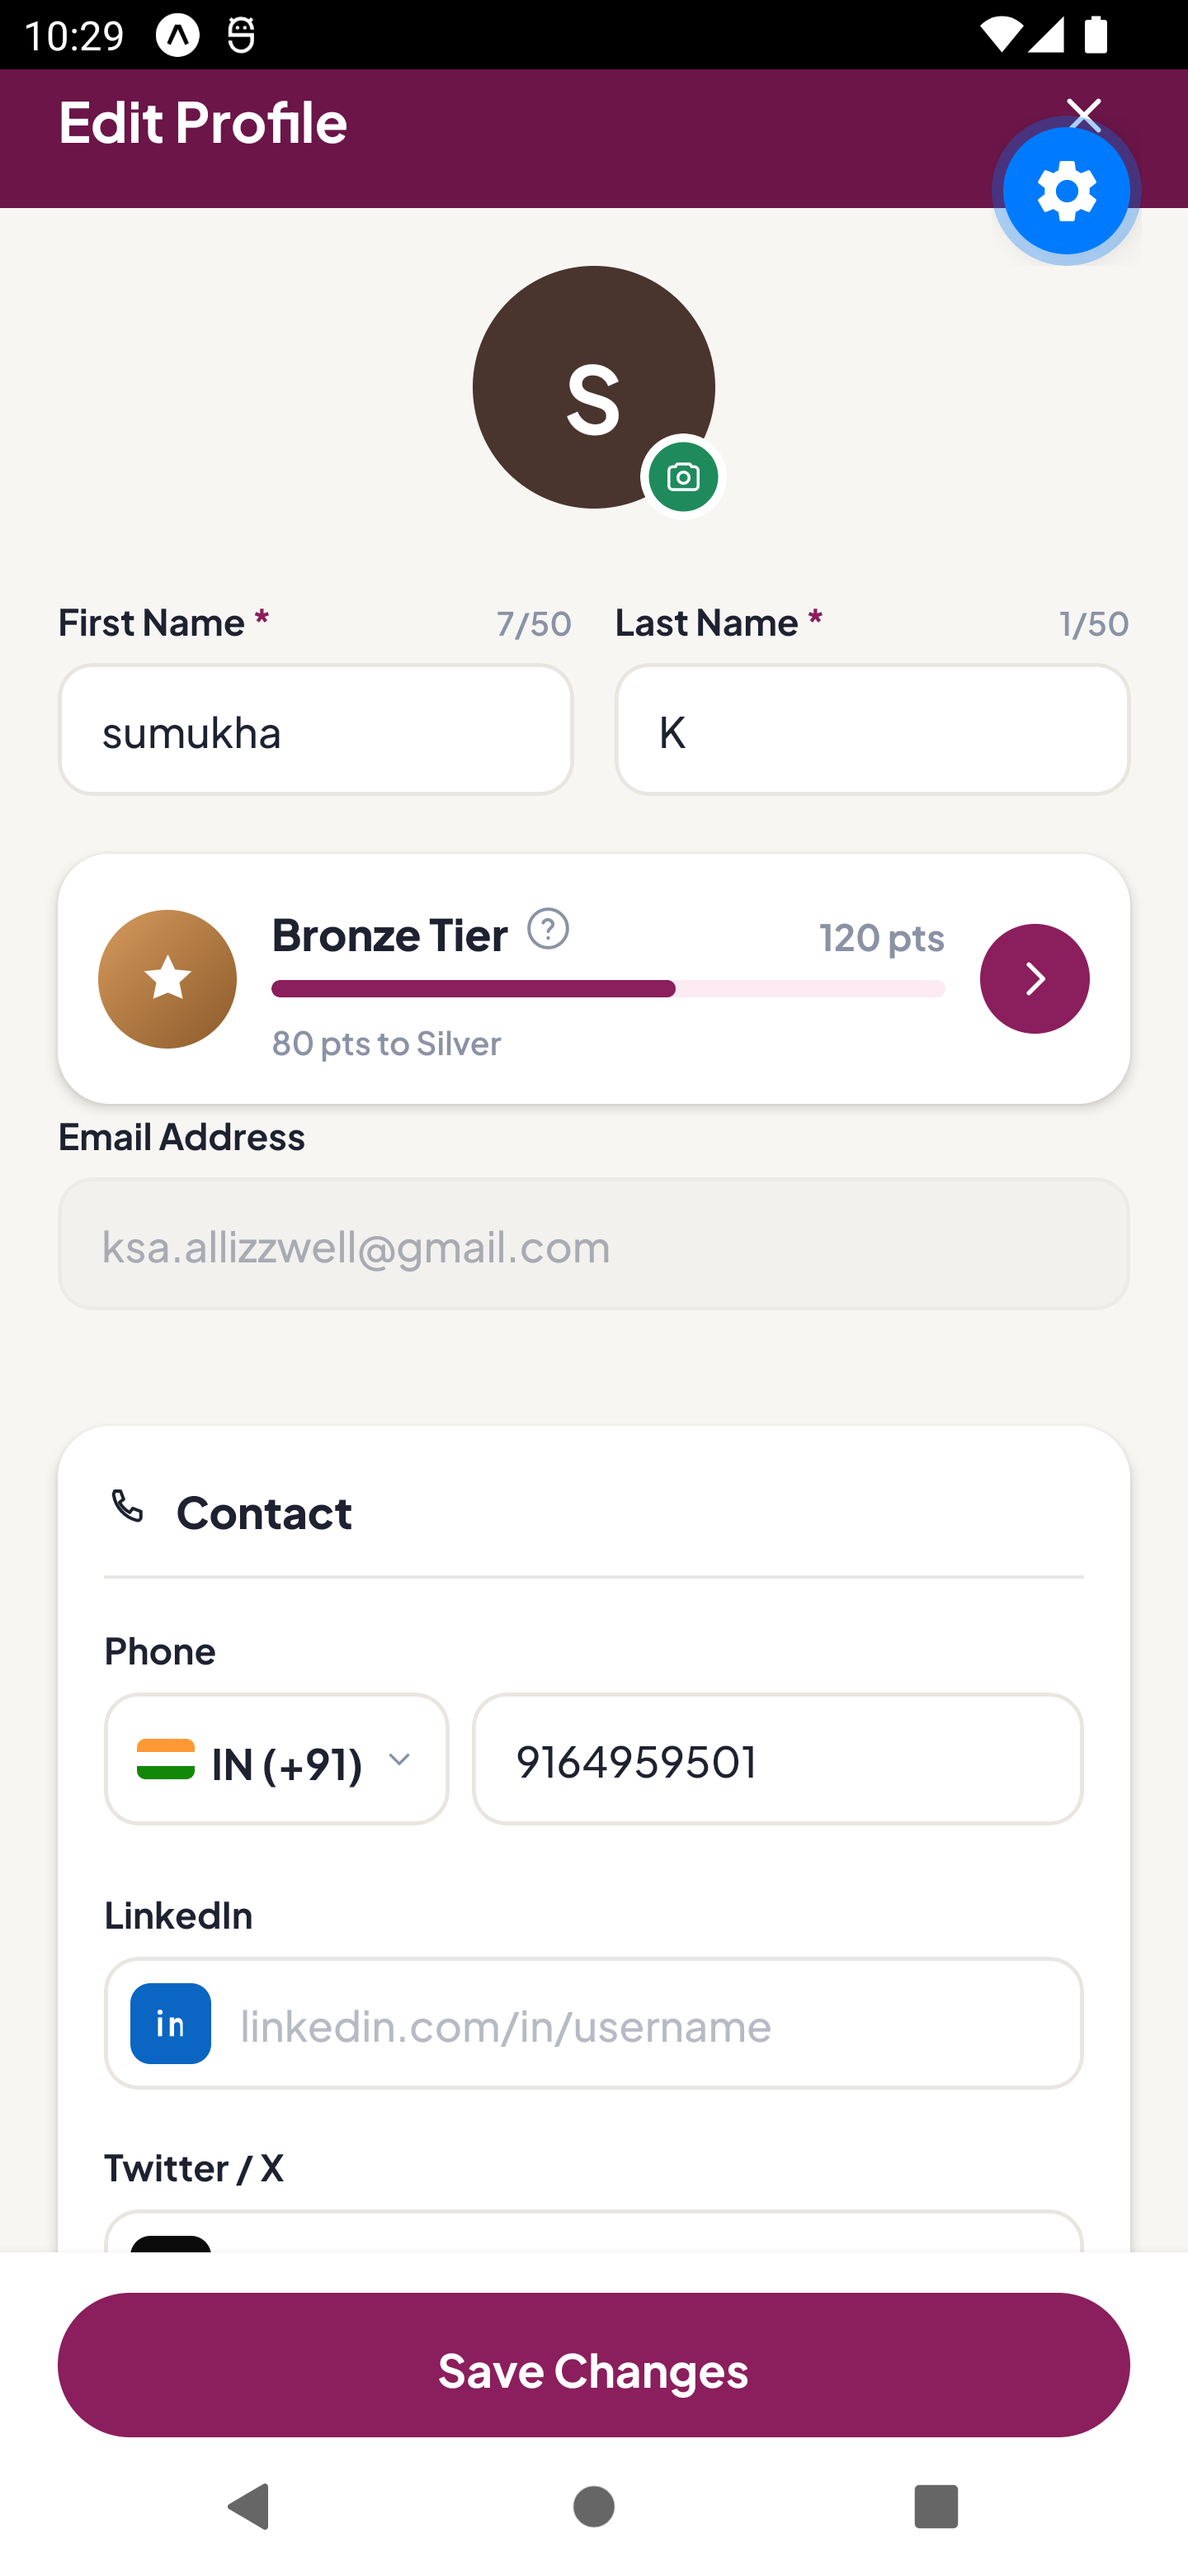
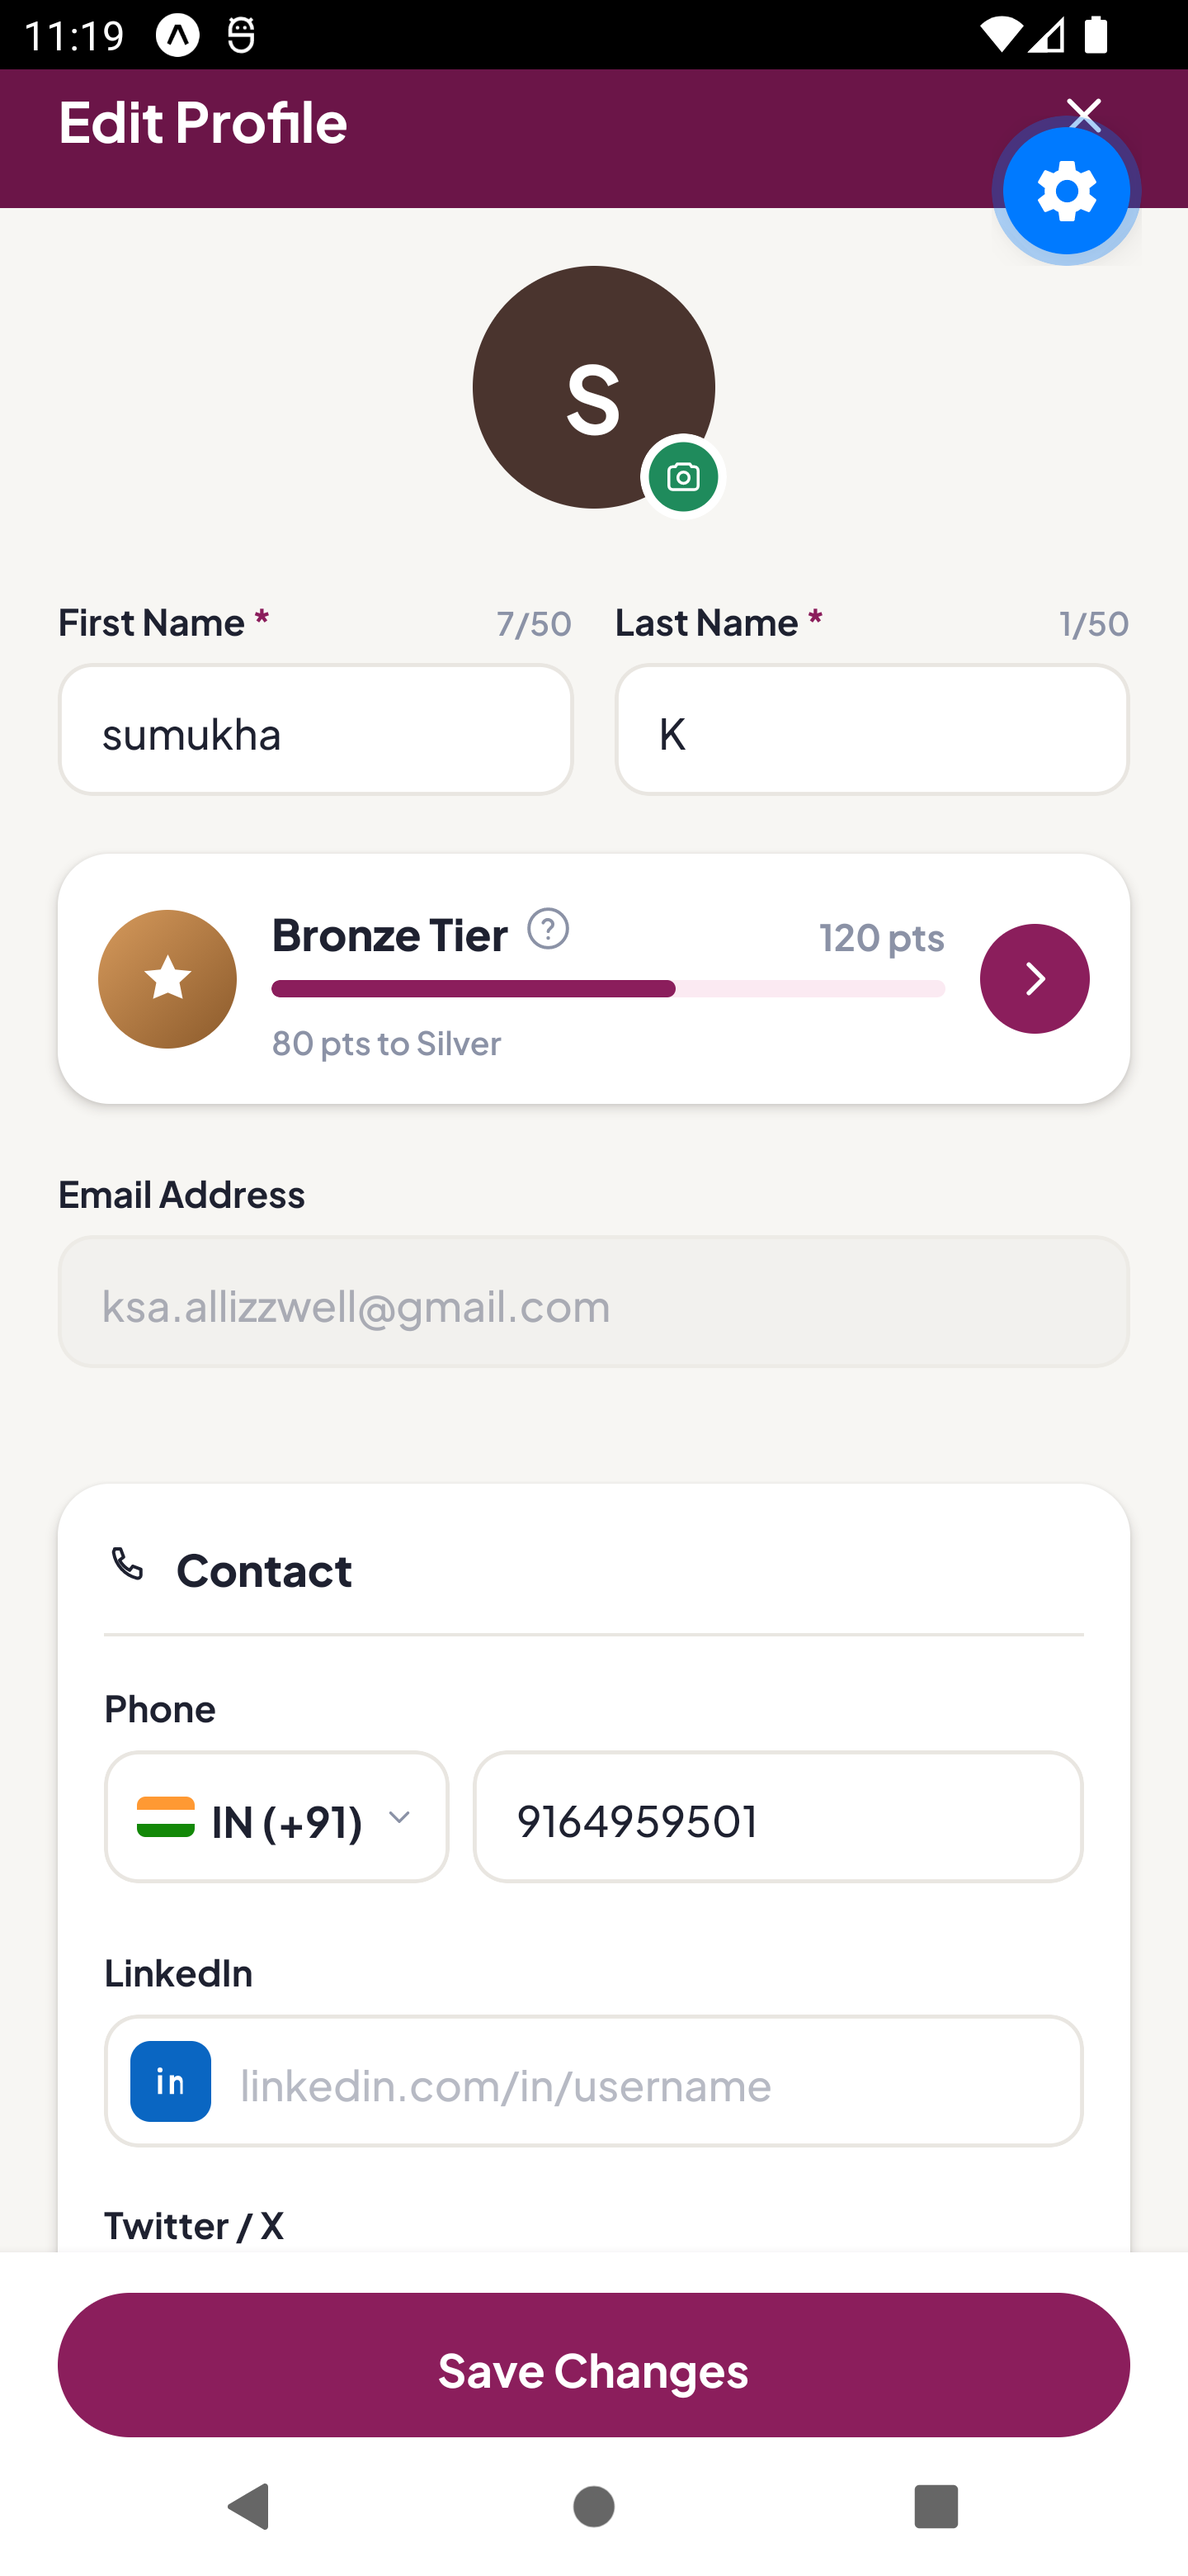
fix: add missing spacing between rewards card and Email Address
RewardsTeaserCard had no bottom margin of its own, and the Email
Address field right after it had no top margin either, so the two
sat flush against each other with zero gap — visible on every Android
size tested. Wrapped the card usage in a container with marginBottom
matching the rest of the form's vertical rhythm (20px, same as the
gap above the card).

Re-ran on all 3 Android emulators (small 480x800, Pixel 6a, Pixel 6
Pro) and refreshed the Edit Profile screenshot in each device folder.

diff --git a/src/features/profile/screens/EditProfileScreen.tsx b/src/features/profile/screens/EditProfileScreen.tsx
@@ -73,10 +73,12 @@ export function EditProfileScreen({ navigation }: Props) {
             <DisplayField label="Last Name" required count={`${profile.lastName.length}/50`} value={profile.lastName} />
           </View>
 
-          <RewardsTeaserCard
-            points={mockRewardsProfile.points}
-            onPress={() => navigation.navigate('RewardsDetails')}
-          />
+          <View style={styles.rewardsWrap}>
+            <RewardsTeaserCard
+              points={mockRewardsProfile.points}
+              onPress={() => navigation.navigate('RewardsDetails')}
+            />
+          </View>
 
           <View style={styles.fieldSingle}>
             <Text style={styles.fieldLabel}>Email Address</Text>
@@ -235,6 +237,9 @@ const styles = StyleSheet.create({
   fieldRow: {
     flexDirection: 'row',
     gap: spacing.md + 2,
+    marginBottom: spacing.xl,
+  },
+  rewardsWrap: {
     marginBottom: spacing.xl,
   },
   field: {
